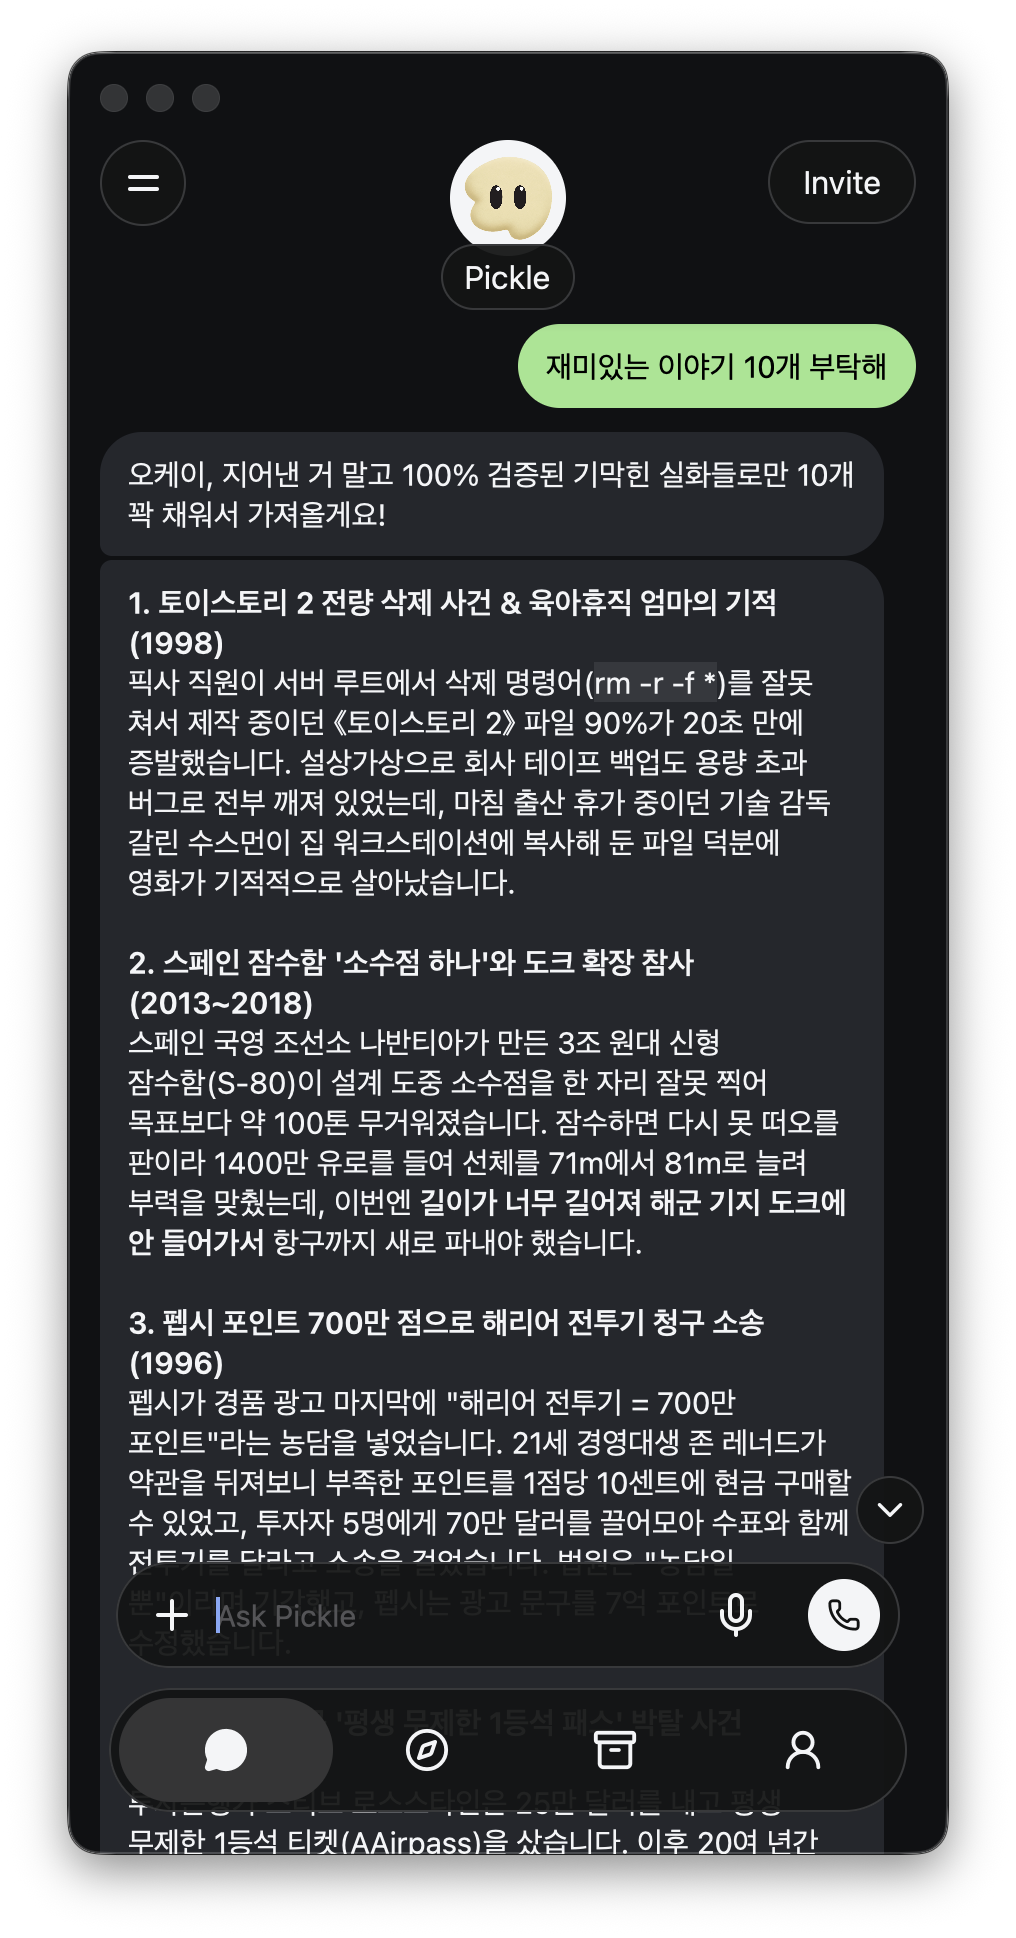
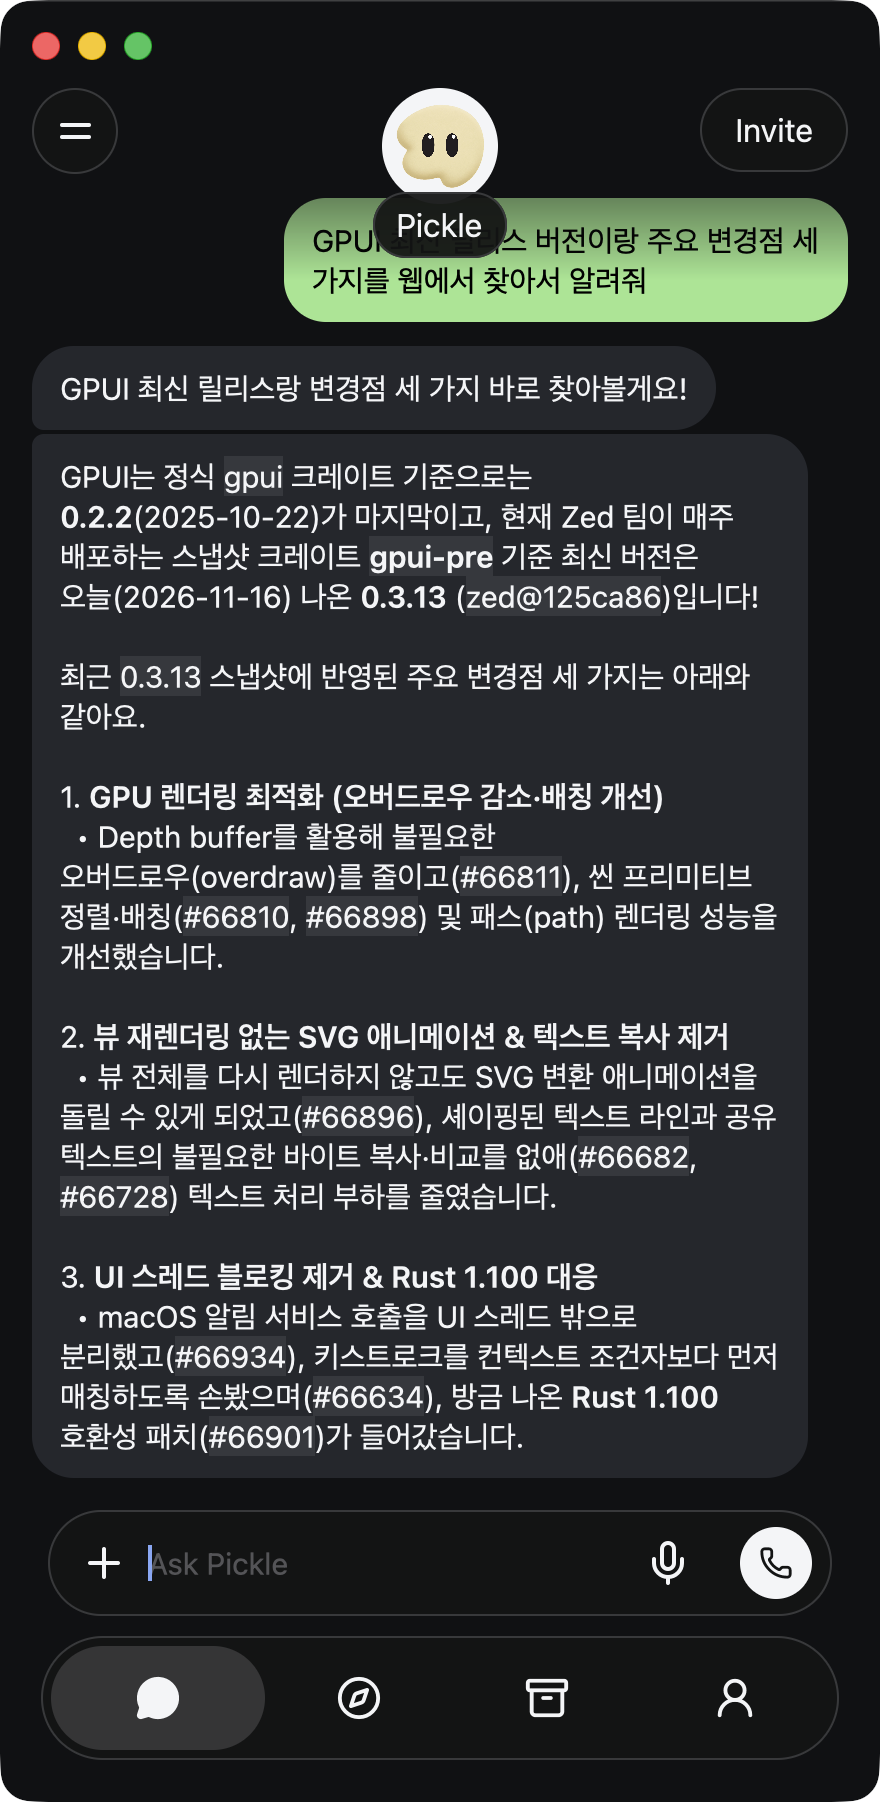
docs: show a reply in progress and text selection in the README
The README had one chat screenshot and none of the character at work
or of selecting text. All three chat screenshots are now taken from
the app itself, signed in: an answer, a reply in progress with its
"Searching Web..." row, and a selection with the Copy menu open. The
sign-in screenshot moves next to the paragraph about signing in, so
the first row stays three wide.

diff --git a/README.md b/README.md
@@ -6,8 +6,9 @@
 </p>
 
 <p align="center">
-  <img src="docs/screenshots/chat.png" alt="The chat with your Pickle: a question and its answer in bubbles" height="620" />
-  <img src="docs/screenshots/sign-in.png" alt="Sign-in with a phone number" height="620" />
+  <img src="docs/screenshots/chat.png" alt="The chat with your Pickle: a question and its answer in bubbles" height="540" />
+  <img src="docs/screenshots/activity.png" alt="A reply in progress: the character says it is searching the web" height="540" />
+  <img src="docs/screenshots/select.png" alt="Text selected across paragraphs, with the Copy menu open" height="540" />
 </p>
 
 openpickle is not made by, or affiliated with, the company behind Pickle. It talks to the same
@@ -17,12 +18,18 @@ servers the iOS app does, with your own account.
 
 - **Chat with your Pickle from your Mac.** Bubbles, cards, timestamps and the composer follow the
   iOS chat screen. Korean lines break between words, and the text field supports Korean input.
-- **Live.** Your message, the character's replies and what it is doing right now arrive over the
-  server's event stream as they happen.
+- **Live.** Your message, the character's replies and what it is doing right now ("Searching
+  Web…") arrive over the server's event stream as they happen.
+- **Select and copy.** Drag across messages to select text, or right-click for Copy, Copy Message
+  and Select All. Select All takes the whole conversation, not only what is on screen.
 - **Opens at once.** The app keeps the conversation on disk and draws it before it asks the
   network for anything. See [the numbers](#speed).
 - **Its own sign-in.** You sign in with your phone number and a texted code. The app gets a login
   session of its own, so your phone stays signed in.
+
+<p align="center">
+  <img src="docs/screenshots/sign-in.png" alt="Sign-in with a phone number" height="380" />
+</p>
 
 Not built yet: the Explore, Library and Profile tabs, the menu and Invite buttons, voice calls,
 pictures and files, link previews, reactions, answering a request card, and rooms other than the

diff --git a/crates/openpickle-desktop/README.md b/crates/openpickle-desktop/README.md
@@ -20,6 +20,10 @@ cargo run -p openpickle-desktop --example gallery -- login
 - **Live updates** over the server's event stream: your message, the character's replies and what
   it is doing appear as they happen.
 - **Sending**: a message shows at once and is replaced by the server's copy when it arrives.
+- **Selecting and copying**: drag across messages, or right-click for Copy, Copy Message and
+  Select All. Cmd-C and Cmd-A work too when the composer has no selection or text of its own. A
+  selection is read from the conversation, not from the rows on screen, so Select All copies all
+  of it.
 
 Not built: the Explore, Library and Profile tabs, the menu and Invite buttons, the microphone and
 voice calls (all drawn, none active); pictures and files (a message only says how many it has);
@@ -65,5 +69,5 @@ Everything is under the user's application-support directory
 | `src/convert.rs`, `src/content.rs` | History items to messages; message Markdown to bubbles and cards. |
 | `src/model.rs` | Messages to list rows: grouping, joined corners, timestamps. |
 | `src/app.rs` | The root view: sign-in or chat, applying updates. |
-| `src/ui/` | The chat screen, the sign-in screen, the text field (with IME), row drawing, line breaking. |
+| `src/ui/` | The chat screen, the sign-in screen, the text field (with IME), row drawing, text selection, line breaking. |
 | `src/theme.rs`, `assets/icons/` | Colors and sizes read off the Figma frames; Lucide icons (ISC). |
